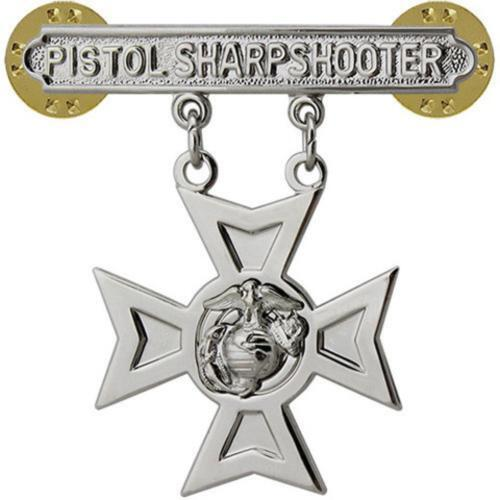
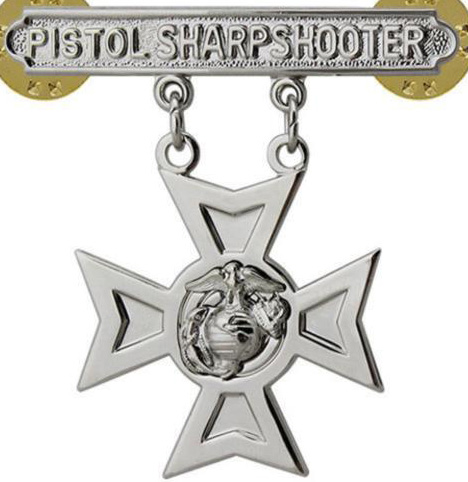
edited images on awards and decorations page

Changed region(s): [[0.0, 0.0, 1.0, 0.9959], [0.359, 0.4046, 0.3889, 0.4357]]

diff --git a/awards_decorations.html b/awards_decorations.html
@@ -40,19 +40,16 @@
     <hr>
     <section class="certs">
         <img src="Images/Codeup_Graduation_Certificate.jpg" alt="Certificate of Completion - Web Development">
+        <img src="Images/certificate_of%20_appreciation_barak_obama.jpg" alt="Certificate of Appreciation From President Barak Obama">
+        <img src="Images/certificate_of_retirement.jpg" alt="Certificate of Retirement from the United States Air Force">
+        <img src="Images/NJANG_Honorable_Discharge_Certificate.jpg" alt="Air National Guard Honorable Discharge Certificate">
+        <img src="Images/CAANG_Honorable_Discharge.jpg" alt="California Air National Guard Honorable Discharge">
+        <img src="Images/NVANG_Honorable_Discharge.jpg" alt="Nevada Air National Guard Honorable Discharge">
         <img src="Images/Certificate_Of_Recognition_Cold_War.jpg"
              alt="Certificate of Recognition - Service During The Cold War">
         <img src="Images/USMC_Discharge.jpg" alt="Honorable Discharge Certificate - USMC(R)">
-        <img src="Images/rifle_expert.jpeg" alt="M-16 Rifle Expert Badge" class="m16Badge">
         <img src="Images/pistol_sharpshooter.jpeg" alt="9MM Pistol Sharpshooter" class="m9badge">
-        <img src="Images/NVANG_Honorable_Discharge.jpg" alt="Nevada Air National Guard Honorable Discharge">
-        <img src="Images/CAANG_Honorable_Discharge.jpg" alt="California Air National Guard Honorable Discharge">
-        <img src="Images/NJANG_Honorable_Discharge_Certificate.jpg"
-             alt="Air National Guard Honorable Discharge Certificate" class="certl">
-        <img src="Images/certificate_of%20_appreciation_barak_obama.jpg" class="certl"
-             alt="Certificate of Appreciation From President Barak Obama">
-        <img src="Images/certificate_of_retirement.jpg" class="certp"
-             alt="Certificate of Retirement from the United States Air Force">
+        <img src="Images/rifle_expert.jpeg" alt="M-16 Rifle Expert Badge" class="m16Badge">
         <img src="Images/TRAA_Patch.jpeg" class="patch" alt="Nationally Certified Tow Operator Patch">
         <img src="Images/ASE_Patch.jpeg" class="patch" alt="ASE Parts Technician Patch">
         <img src="Images/AIA_Patch.jpeg" class="patch" alt="AIA Certified Import Parts Specialist Patch">

diff --git a/css/awards_decs.css b/css/awards_decs.css
@@ -25,6 +25,7 @@ h2 {
     display: flex;
     justify-content: center;
     width: 100vw;
+    max-width: 100vw;
     margin: 0;
     padding: 0;
 }
@@ -45,10 +46,10 @@ h2 {
     gap: 16px;
 }
 
-section img {
+.certs img {
     width: 100%;
-    max-width: 500px;
-    height: 400px;
+    max-width: 600px;
+    height: 500px;
     object-fit: cover;
     border: 2px solid black;
     border-radius: 10px;
